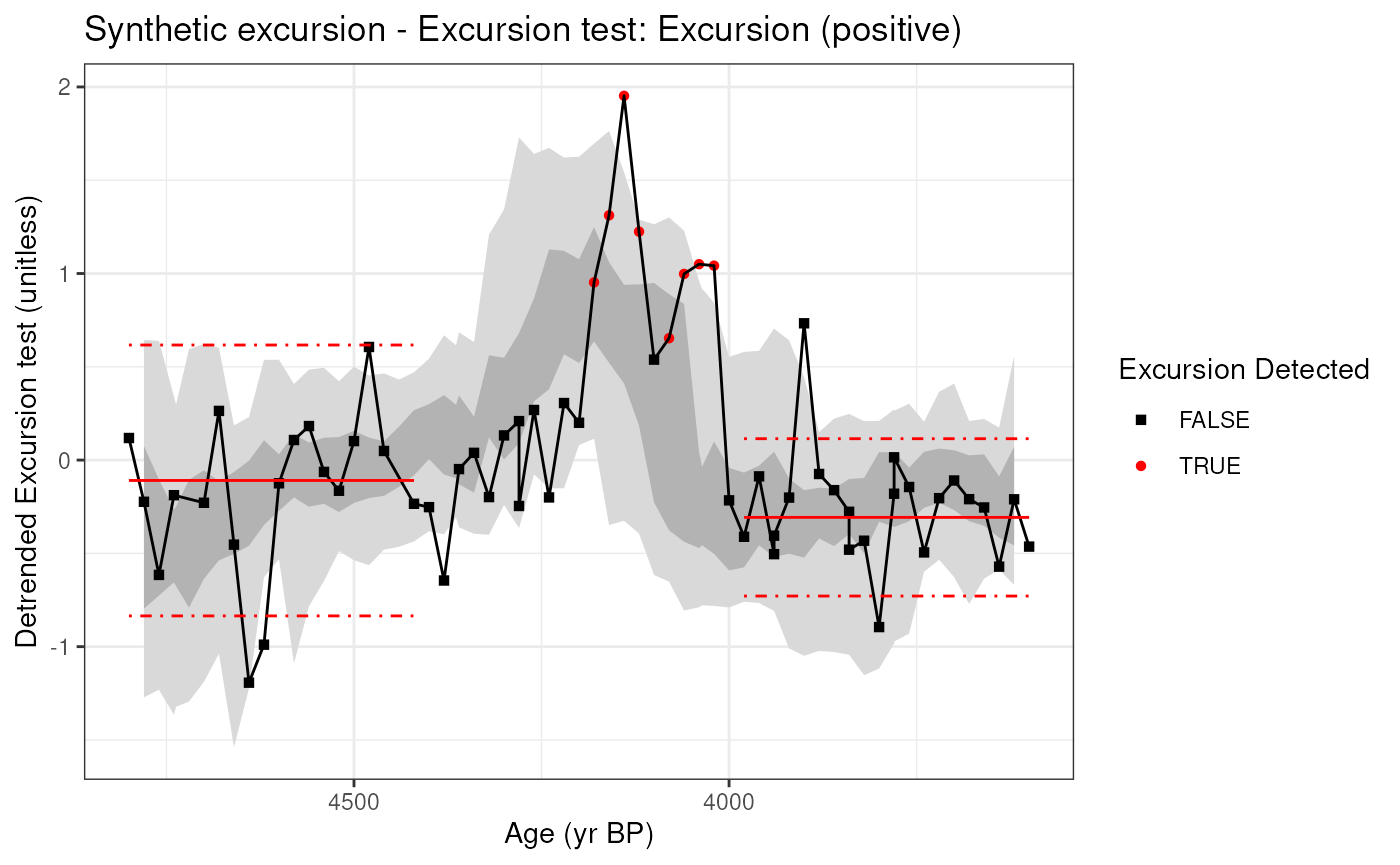
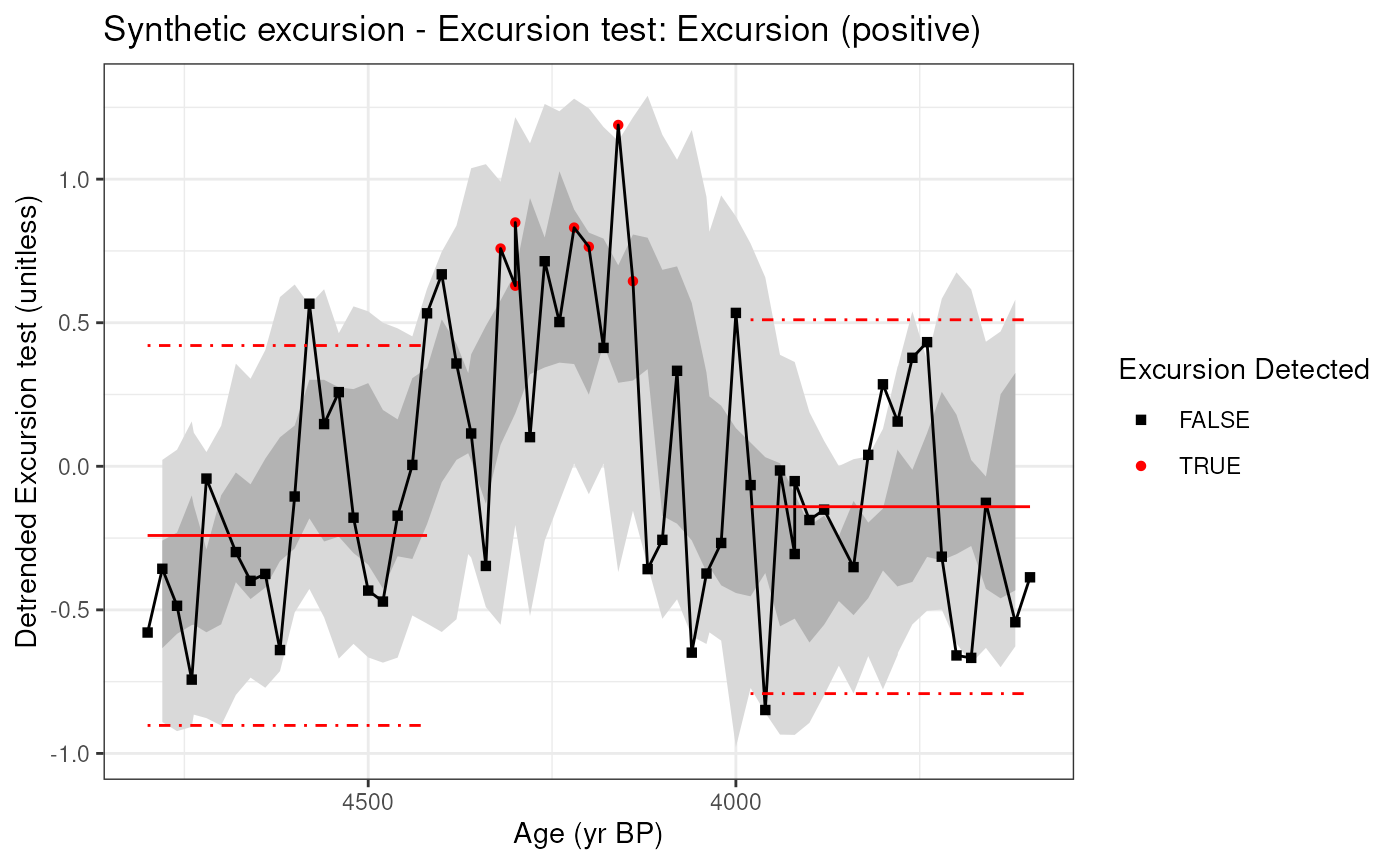
Deploying to gh-pages from @ LinkedEarth/actR@d43429a095d16a2b678f42fce0e0b3847300814f 🚀

diff --git a/articles/detectExcursion.html b/articles/detectExcursion.html
@@ -146,7 +146,7 @@ functions will summarize the results.</p>
 <span><span class="co"><span style="font-weight: bold;">#&gt; </span><span style="color: #555555;">sig.num = 2</span></span></span>
 <span><span class="co"><span style="color: #555555;">#&gt; n.consecutive = 2</span></span></span>
 <span><span class="co"><span style="color: #555555;">#&gt; exc.type = either</span></span></span>
-<span><span class="co"><span style="color: #555555;">#&gt; min.vals = 2</span></span></span>
+<span><span class="co"><span style="color: #555555;">#&gt; min.vals = 3</span></span></span>
 <span><span class="co"><span style="color: #555555;">#&gt; na.rm = TRUE</span></span></span>
 <span><span class="co"><span style="color: #555555;">#&gt; </span></span></span></code></pre></div>
 <p>Here we see the results, but it’s easier to see the results,
@@ -196,13 +196,13 @@ null hypothesis simulation 50 times.</p>
 <span><span class="co">#&gt; Selected d18O</span></span>
 <span><span class="co">#&gt; <span style="color: #00BB00;">Testing null hypothesis with 50 simulations, each with 50 ensemble members. </span></span></span>
 <span><span class="co"><span style="color: #00BB00;">#&gt; </span></span></span>
-<span><span class="co">#&gt; Testing null hypothesis <span style="color: #00BB00;">■■                              </span>   4% |  ETA: 26s</span></span>
-<span><span class="co">#&gt; Testing null hypothesis <span style="color: #00BB00;">■■■■■■■                         </span>  20% |  ETA: 17s</span></span>
-<span><span class="co">#&gt; Testing null hypothesis <span style="color: #00BB00;">■■■■■■■■■■■■                    </span>  36% |  ETA: 13s</span></span>
+<span><span class="co">#&gt; Testing null hypothesis <span style="color: #00BB00;">■■                              </span>   4% |  ETA: 27s</span></span>
+<span><span class="co">#&gt; Testing null hypothesis <span style="color: #00BB00;">■■■■■■                          </span>  18% |  ETA: 17s</span></span>
+<span><span class="co">#&gt; Testing null hypothesis <span style="color: #00BB00;">■■■■■■■■■■■                     </span>  34% |  ETA: 13s</span></span>
 <span><span class="co">#&gt; Testing null hypothesis <span style="color: #00BB00;">■■■■■■■■■■■■■■■■                </span>  50% |  ETA: 10s</span></span>
-<span><span class="co">#&gt; Testing null hypothesis <span style="color: #00BB00;">■■■■■■■■■■■■■■■■■■■■■           </span>  66% |  ETA:  7s</span></span>
-<span><span class="co">#&gt; Testing null hypothesis <span style="color: #00BB00;">■■■■■■■■■■■■■■■■■■■■■■■■■       </span>  80% |  ETA:  4s</span></span>
-<span><span class="co">#&gt; Testing null hypothesis <span style="color: #00BB00;">■■■■■■■■■■■■■■■■■■■■■■■■■■■■■■  </span>  96% |  ETA:  1s</span></span></code></pre></div>
+<span><span class="co">#&gt; Testing null hypothesis <span style="color: #00BB00;">■■■■■■■■■■■■■■■■■■■■            </span>  64% |  ETA:  7s</span></span>
+<span><span class="co">#&gt; Testing null hypothesis <span style="color: #00BB00;">■■■■■■■■■■■■■■■■■■■■■■■■        </span>  78% |  ETA:  4s</span></span>
+<span><span class="co">#&gt; Testing null hypothesis <span style="color: #00BB00;">■■■■■■■■■■■■■■■■■■■■■■■■■■■■■   </span>  94% |  ETA:  1s</span></span></code></pre></div>
 <p>This time, when we summarize the results, we get more interesting
 output, including an empirical p-value, which is the fraction of null
 hypothesis simulations that exceed the positivity rate in the actual
@@ -213,7 +213,7 @@ significant.</p>
 <span><span class="co">#&gt; <span style="font-weight: bold;">NGRIP.NGRIP.2004 - d18O: Excursion test results</span></span></span>
 <span><span class="co"><span style="font-weight: bold;">#&gt; </span><span style="color: #555555;">Searched for </span><span style="color: #555555; font-weight: bold;">negative</span><span style="color: #555555;"> excursions in a </span><span style="color: #555555; font-weight: bold;">200</span><span style="color: #555555;"> year window around </span><span style="color: #555555; font-weight: bold;">8200</span><span style="color: #555555;"> BP, with reference windows of </span><span style="color: #555555; font-weight: bold;">400</span><span style="color: #555555;"> years on either side.</span></span></span>
 <span><span class="co"><span style="color: #555555;">#&gt; </span></span></span>
-<span><span class="co">#&gt; <span style="font-weight: bold;">Overall result: Empirical p-value = </span><span style="color: #BB0000; font-weight: bold;">0.0638297872340425</span></span></span>
+<span><span class="co">#&gt; <span style="font-weight: bold;">Overall result: Empirical p-value = </span><span style="color: #BB0000; font-weight: bold;">0.0666666666666667</span></span></span>
 <span><span class="co"><span style="font-weight: bold;">#&gt; </span>Time uncertainty considered? <span style="color: #BB0000;">FALSE</span></span></span>
 <span><span class="co">#&gt; Paleo uncertainty considered? <span style="color: #00BB00;">TRUE</span></span></span>
 <span><span class="co">#&gt; Error propagation ensemble members = 50</span></span>
@@ -223,7 +223,7 @@ significant.</p>
 <span><span class="co"><span style="font-weight: bold;">#&gt; </span><span style="color: #555555;">sig.num = 2</span></span></span>
 <span><span class="co"><span style="color: #555555;">#&gt; n.consecutive = 2</span></span></span>
 <span><span class="co"><span style="color: #555555;">#&gt; exc.type = negative</span></span></span>
-<span><span class="co"><span style="color: #555555;">#&gt; min.vals = 2</span></span></span>
+<span><span class="co"><span style="color: #555555;">#&gt; min.vals = 3</span></span></span>
 <span><span class="co"><span style="color: #555555;">#&gt; na.rm = TRUE</span></span></span>
 <span><span class="co"><span style="color: #555555;">#&gt; </span></span></span></code></pre></div>
 <p>We also get a bit more information when plotting with uncertainties.
@@ -271,15 +271,15 @@ through our robust null hypothesis testing.</p>
 <span><span class="co">#&gt; Selected d18O</span></span>
 <span><span class="co">#&gt; <span style="color: #00BB00;">Testing null hypothesis with 50 simulations, each with 50 ensemble members. </span></span></span>
 <span><span class="co"><span style="color: #00BB00;">#&gt; </span></span></span>
-<span><span class="co">#&gt; Testing null hypothesis <span style="color: #00BB00;">■■■■■                           </span>  12% |  ETA: 27s</span></span>
-<span><span class="co">#&gt; Testing null hypothesis <span style="color: #00BB00;">■■■■■■■■                        </span>  22% |  ETA: 24s</span></span>
-<span><span class="co">#&gt; Testing null hypothesis <span style="color: #00BB00;">■■■■■■■■■■■                     </span>  34% |  ETA: 20s</span></span>
+<span><span class="co">#&gt; Testing null hypothesis <span style="color: #00BB00;">■■■■■                           </span>  12% |  ETA: 28s</span></span>
+<span><span class="co">#&gt; Testing null hypothesis <span style="color: #00BB00;">■■■■■■■■                        </span>  22% |  ETA: 23s</span></span>
+<span><span class="co">#&gt; Testing null hypothesis <span style="color: #00BB00;">■■■■■■■■■■■                     </span>  34% |  ETA: 19s</span></span>
 <span><span class="co">#&gt; Testing null hypothesis <span style="color: #00BB00;">■■■■■■■■■■■■■■                  </span>  44% |  ETA: 16s</span></span>
 <span><span class="co">#&gt; Testing null hypothesis <span style="color: #00BB00;">■■■■■■■■■■■■■■■■■               </span>  54% |  ETA: 14s</span></span>
 <span><span class="co">#&gt; Testing null hypothesis <span style="color: #00BB00;">■■■■■■■■■■■■■■■■■■■■            </span>  64% |  ETA: 11s</span></span>
 <span><span class="co">#&gt; Testing null hypothesis <span style="color: #00BB00;">■■■■■■■■■■■■■■■■■■■■■■■         </span>  74% |  ETA:  8s</span></span>
 <span><span class="co">#&gt; Testing null hypothesis <span style="color: #00BB00;">■■■■■■■■■■■■■■■■■■■■■■■■■■      </span>  84% |  ETA:  5s</span></span>
-<span><span class="co">#&gt; Testing null hypothesis <span style="color: #00BB00;">■■■■■■■■■■■■■■■■■■■■■■■■■■■■■   </span>  92% |  ETA:  2s</span></span></code></pre></div>
+<span><span class="co">#&gt; Testing null hypothesis <span style="color: #00BB00;">■■■■■■■■■■■■■■■■■■■■■■■■■■■■■   </span>  94% |  ETA:  2s</span></span></code></pre></div>
 <p>Let’s examine the result.</p>
 <div class="sourceCode" id="cb9"><pre class="downlit sourceCode r">
 <code class="sourceCode R"><span></span>
@@ -287,7 +287,7 @@ through our robust null hypothesis testing.</p>
 <span><span class="co">#&gt; <span style="font-weight: bold;">NGRIP.NGRIP.2004 - d18O: Excursion test results</span></span></span>
 <span><span class="co"><span style="font-weight: bold;">#&gt; </span><span style="color: #555555;">Searched for </span><span style="color: #555555; font-weight: bold;">negative</span><span style="color: #555555;"> excursions in a </span><span style="color: #555555; font-weight: bold;">200</span><span style="color: #555555;"> year window around </span><span style="color: #555555; font-weight: bold;">8200</span><span style="color: #555555;"> BP, with reference windows of </span><span style="color: #555555; font-weight: bold;">400</span><span style="color: #555555;"> years on either side.</span></span></span>
 <span><span class="co"><span style="color: #555555;">#&gt; </span></span></span>
-<span><span class="co">#&gt; <span style="font-weight: bold;">Overall result: Empirical p-value = </span><span style="color: #00BB00; font-weight: bold;">0.02</span></span></span>
+<span><span class="co">#&gt; <span style="font-weight: bold;">Overall result: Empirical p-value = </span><span style="color: #00BB00; font-weight: bold;">0.0217391304347826</span></span></span>
 <span><span class="co"><span style="font-weight: bold;">#&gt; </span>Time uncertainty considered? <span style="color: #00BB00;">TRUE</span></span></span>
 <span><span class="co">#&gt; Paleo uncertainty considered? <span style="color: #00BB00;">TRUE</span></span></span>
 <span><span class="co">#&gt; Error propagation ensemble members = 50</span></span>
@@ -297,7 +297,7 @@ through our robust null hypothesis testing.</p>
 <span><span class="co"><span style="font-weight: bold;">#&gt; </span><span style="color: #555555;">sig.num = 2</span></span></span>
 <span><span class="co"><span style="color: #555555;">#&gt; n.consecutive = 2</span></span></span>
 <span><span class="co"><span style="color: #555555;">#&gt; exc.type = negative</span></span></span>
-<span><span class="co"><span style="color: #555555;">#&gt; min.vals = 2</span></span></span>
+<span><span class="co"><span style="color: #555555;">#&gt; min.vals = 3</span></span></span>
 <span><span class="co"><span style="color: #555555;">#&gt; na.rm = TRUE</span></span></span>
 <span><span class="co"><span style="color: #555555;">#&gt; </span></span></span></code></pre></div>
 <p>And plot the output.</p>

diff --git a/articles/detectShift.html b/articles/detectShift.html
@@ -121,14 +121,15 @@ null.hypothesis.n]. * specifies a minimum segment length of 3000y</p>
 <span><span class="co">#&gt; <span style="color: #BB00BB;">timeUnits is at least partially absent in the input data</span></span></span>
 <span><span class="co"><span style="color: #BB00BB;">#&gt; </span><span style="color: #00BB00;">Testing null hypothesis with 50 simulations, each with 50 ensemble members. </span></span></span>
 <span><span class="co"><span style="color: #00BB00;">#&gt; </span></span></span>
-<span><span class="co">#&gt; Testing null hypothesis <span style="color: #00BB00;">■■■                             </span>   6% |  ETA: 23s</span></span>
-<span><span class="co">#&gt; Testing null hypothesis <span style="color: #00BB00;">■■■■■■                          </span>  18% |  ETA: 21s</span></span>
-<span><span class="co">#&gt; Testing null hypothesis <span style="color: #00BB00;">■■■■■■■■■■                      </span>  30% |  ETA: 18s</span></span>
-<span><span class="co">#&gt; Testing null hypothesis <span style="color: #00BB00;">■■■■■■■■■■■■■■                  </span>  42% |  ETA: 15s</span></span>
-<span><span class="co">#&gt; Testing null hypothesis <span style="color: #00BB00;">■■■■■■■■■■■■■■■■■               </span>  54% |  ETA: 12s</span></span>
-<span><span class="co">#&gt; Testing null hypothesis <span style="color: #00BB00;">■■■■■■■■■■■■■■■■■■■■            </span>  64% |  ETA:  9s</span></span>
-<span><span class="co">#&gt; Testing null hypothesis <span style="color: #00BB00;">■■■■■■■■■■■■■■■■■■■■■■■■        </span>  76% |  ETA:  6s</span></span>
-<span><span class="co">#&gt; Testing null hypothesis <span style="color: #00BB00;">■■■■■■■■■■■■■■■■■■■■■■■■■■■     </span>  88% |  ETA:  3s</span></span></code></pre></div>
+<span><span class="co">#&gt; Testing null hypothesis <span style="color: #00BB00;">■■                              </span>   4% |  ETA: 26s</span></span>
+<span><span class="co">#&gt; Testing null hypothesis <span style="color: #00BB00;">■■■■■                           </span>  14% |  ETA: 23s</span></span>
+<span><span class="co">#&gt; Testing null hypothesis <span style="color: #00BB00;">■■■■■■■■■                       </span>  26% |  ETA: 20s</span></span>
+<span><span class="co">#&gt; Testing null hypothesis <span style="color: #00BB00;">■■■■■■■■■■■■                    </span>  36% |  ETA: 17s</span></span>
+<span><span class="co">#&gt; Testing null hypothesis <span style="color: #00BB00;">■■■■■■■■■■■■■■■                 </span>  48% |  ETA: 14s</span></span>
+<span><span class="co">#&gt; Testing null hypothesis <span style="color: #00BB00;">■■■■■■■■■■■■■■■■■■              </span>  58% |  ETA: 12s</span></span>
+<span><span class="co">#&gt; Testing null hypothesis <span style="color: #00BB00;">■■■■■■■■■■■■■■■■■■■■■           </span>  68% |  ETA:  9s</span></span>
+<span><span class="co">#&gt; Testing null hypothesis <span style="color: #00BB00;">■■■■■■■■■■■■■■■■■■■■■■■■■       </span>  80% |  ETA:  5s</span></span>
+<span><span class="co">#&gt; Testing null hypothesis <span style="color: #00BB00;">■■■■■■■■■■■■■■■■■■■■■■■■■■■■■   </span>  92% |  ETA:  2s</span></span></code></pre></div>
 <p>This lines generates a textual summary of the output:</p>
 <div class="sourceCode" id="cb3"><pre class="downlit sourceCode r">
 <code class="sourceCode R"><span><span class="fu"><a href="https://rdrr.io/r/base/summary.html" class="external-link">summary</a></span><span class="op">(</span><span class="va">msGeob</span><span class="op">)</span></span>
@@ -179,9 +180,10 @@ attempt to detect changes in the mean.</p>
 <span><span class="co">#&gt; Selected trsgi</span></span>
 <span><span class="co">#&gt; <span style="color: #00BB00;">Testing null hypothesis with 50 simulations, each with 50 ensemble members. </span></span></span>
 <span><span class="co"><span style="color: #00BB00;">#&gt; </span></span></span>
-<span><span class="co">#&gt; Testing null hypothesis <span style="color: #00BB00;">■■■■■■■■■■■                     </span>  32% |  ETA:  8s</span></span>
-<span><span class="co">#&gt; Testing null hypothesis <span style="color: #00BB00;">■■■■■■■■■■■■■■■■■■              </span>  56% |  ETA:  5s</span></span>
-<span><span class="co">#&gt; Testing null hypothesis <span style="color: #00BB00;">■■■■■■■■■■■■■■■■■■■■■■■■■       </span>  80% |  ETA:  2s</span></span></code></pre></div>
+<span><span class="co">#&gt; Testing null hypothesis <span style="color: #00BB00;">■■■                             </span>   8% |  ETA: 12s</span></span>
+<span><span class="co">#&gt; Testing null hypothesis <span style="color: #00BB00;">■■■■■■■■■■■                     </span>  32% |  ETA:  9s</span></span>
+<span><span class="co">#&gt; Testing null hypothesis <span style="color: #00BB00;">■■■■■■■■■■■■■■■■■               </span>  54% |  ETA:  6s</span></span>
+<span><span class="co">#&gt; Testing null hypothesis <span style="color: #00BB00;">■■■■■■■■■■■■■■■■■■■■■■■■        </span>  78% |  ETA:  3s</span></span></code></pre></div>
 <div class="sourceCode" id="cb6"><pre class="downlit sourceCode r">
 <code class="sourceCode R"><span><span class="va">gbmPlot</span> <span class="op">&lt;-</span> <span class="fu"><a href="https://rdrr.io/r/graphics/plot.default.html" class="external-link">plot</a></span><span class="op">(</span><span class="va">msGb</span><span class="op">)</span></span></code></pre></div>
 <p><img src="detectShift_files/figure-html/unnamed-chunk-6-1.png" width="700"></p>
@@ -206,9 +208,10 @@ package).</p>
 <span><span class="co">#&gt; Selected trsgi</span></span>
 <span><span class="co">#&gt; <span style="color: #00BB00;">Testing null hypothesis with 50 simulations, each with 50 ensemble members. </span></span></span>
 <span><span class="co"><span style="color: #00BB00;">#&gt; </span></span></span>
-<span><span class="co">#&gt; Testing null hypothesis <span style="color: #00BB00;">■■■■■■■■■■                      </span>  30% |  ETA:  9s</span></span>
-<span><span class="co">#&gt; Testing null hypothesis <span style="color: #00BB00;">■■■■■■■■■■■■■■■■■               </span>  54% |  ETA:  6s</span></span>
-<span><span class="co">#&gt; Testing null hypothesis <span style="color: #00BB00;">■■■■■■■■■■■■■■■■■■■■■■■■        </span>  78% |  ETA:  3s</span></span></code></pre></div>
+<span><span class="co">#&gt; Testing null hypothesis <span style="color: #00BB00;">■■■■■■■■                        </span>  22% |  ETA: 10s</span></span>
+<span><span class="co">#&gt; Testing null hypothesis <span style="color: #00BB00;">■■■■■■■■■■■■■■                  </span>  44% |  ETA:  7s</span></span>
+<span><span class="co">#&gt; Testing null hypothesis <span style="color: #00BB00;">■■■■■■■■■■■■■■■■■■■■            </span>  64% |  ETA:  5s</span></span>
+<span><span class="co">#&gt; Testing null hypothesis <span style="color: #00BB00;">■■■■■■■■■■■■■■■■■■■■■■■■■■■     </span>  86% |  ETA:  2s</span></span></code></pre></div>
 <p>Note also that actR offers 3 different methods to generate
 surrogates, as detailed in the documentation. The default is
 <em>isospectral</em>, which was used in the previous examples. To change

diff --git a/articles/makeExcursion.html b/articles/makeExcursion.html
@@ -203,7 +203,7 @@ results</p>
 <span><span class="co"><span style="font-weight: bold;">## </span><span style="color: #555555;">sig.num = 2.2854998252122</span></span></span>
 <span><span class="co"><span style="color: #555555;">## n.consecutive = 2</span></span></span>
 <span><span class="co"><span style="color: #555555;">## exc.type = either</span></span></span>
-<span><span class="co"><span style="color: #555555;">## min.vals = 2</span></span></span>
+<span><span class="co"><span style="color: #555555;">## min.vals = 3</span></span></span>
 <span><span class="co"><span style="color: #555555;">## na.rm = TRUE</span></span></span>
 <span><span class="co"><span style="color: #555555;">## </span></span></span></code></pre>
 <p>Let’s plot the results</p>
@@ -284,15 +284,17 @@ uncertainty.</p>
 <span>                          simulate.paleo.uncertainty <span class="op">=</span> <span class="cn">TRUE</span><span class="op">)</span></span></code></pre></div>
 <pre><code><span><span class="co">## <span style="color: #00BB00;">Testing null hypothesis with 50 simulations, each with 50 ensemble members. </span></span></span>
 <span><span class="co"><span style="color: #00BB00;">## </span></span></span></code></pre>
-<pre><code><span><span class="co">## Testing null hypothesis <span style="color: #00BB00;">■■■■■                           </span>  14% |  ETA: 19s</span></span></code></pre>
+<pre><code><span><span class="co">## Testing null hypothesis <span style="color: #00BB00;">■■■■■                           </span>  14% |  ETA: 20s</span></span></code></pre>
 <pre><code><span><span class="co">## Testing null hypothesis <span style="color: #00BB00;">■■■■■■■■■                       </span>  26% |  ETA: 17s</span></span></code></pre>
+<pre><code><span><span class="co">## Warning in .f(.x[[i]], .y[[i]], ...): insufficient minimum values</span></span></code></pre>
 <pre><code><span><span class="co">## Testing null hypothesis <span style="color: #00BB00;">■■■■■■■■■■■■■                   </span>  40% |  ETA: 13s</span></span></code></pre>
-<pre><code><span><span class="co">## Testing null hypothesis <span style="color: #00BB00;">■■■■■■■■■■■■■■■■■■              </span>  56% |  ETA: 10s</span></span></code></pre>
-<pre><code><span><span class="co">## Testing null hypothesis <span style="color: #00BB00;">■■■■■■■■■■■■■■■■■■■■■■          </span>  70% |  ETA:  6s</span></span></code></pre>
+<pre><code><span><span class="co">## Testing null hypothesis <span style="color: #00BB00;">■■■■■■■■■■■■■■■■■               </span>  54% |  ETA: 10s</span></span></code></pre>
+<pre><code><span><span class="co">## Testing null hypothesis <span style="color: #00BB00;">■■■■■■■■■■■■■■■■■■■■■■          </span>  70% |  ETA:  7s</span></span></code></pre>
 <pre><code><span><span class="co">## Testing null hypothesis <span style="color: #00BB00;">■■■■■■■■■■■■■■■■■■■■■■■■■■      </span>  84% |  ETA:  3s</span></span></code></pre>
+<pre><code><span><span class="co">## Warning in .f(.x[[i]], .y[[i]], ...): insufficient minimum values</span></span></code></pre>
 <pre><code><span><span class="co">## Testing null hypothesis <span style="color: #00BB00;">■■■■■■■■■■■■■■■■■■■■■■■■■■■■■■  </span>  98% |  ETA:  0s</span></span></code></pre>
 <p>Now let’s look at the results</p>
-<div class="sourceCode" id="cb18"><pre class="downlit sourceCode r">
+<div class="sourceCode" id="cb20"><pre class="downlit sourceCode r">
 <code class="sourceCode R"><span><span class="fu"><a href="https://rdrr.io/r/base/print.html" class="external-link">print</a></span><span class="op">(</span><span class="va">detectedExcusionEns</span><span class="op">)</span></span></code></pre></div>
 <pre><code><span><span class="co">## <span style="font-weight: bold;">Synthetic excursion - Excursion test: Excursion test results</span></span></span>
 <span><span class="co"><span style="font-weight: bold;">## </span><span style="color: #555555;">Searched for </span><span style="color: #555555; font-weight: bold;">positive</span><span style="color: #555555;"> excursions in a </span><span style="color: #555555; font-weight: bold;">400</span><span style="color: #555555;"> year window around </span><span style="color: #555555; font-weight: bold;">4200</span><span style="color: #555555;"> yr BP, with reference windows of </span><span style="color: #555555; font-weight: bold;">400</span><span style="color: #555555;"> years on either side.</span></span></span>
@@ -307,11 +309,11 @@ uncertainty.</p>
 <span><span class="co"><span style="font-weight: bold;">## </span><span style="color: #555555;">sig.num = 2</span></span></span>
 <span><span class="co"><span style="color: #555555;">## n.consecutive = 2</span></span></span>
 <span><span class="co"><span style="color: #555555;">## exc.type = positive</span></span></span>
-<span><span class="co"><span style="color: #555555;">## min.vals = 2</span></span></span>
+<span><span class="co"><span style="color: #555555;">## min.vals = 3</span></span></span>
 <span><span class="co"><span style="color: #555555;">## na.rm = TRUE</span></span></span>
 <span><span class="co"><span style="color: #555555;">## </span></span></span></code></pre>
 <p>and make a plot</p>
-<div class="sourceCode" id="cb20"><pre class="downlit sourceCode r">
+<div class="sourceCode" id="cb22"><pre class="downlit sourceCode r">
 <code class="sourceCode R"><span><span class="fu"><a href="https://rdrr.io/r/graphics/plot.default.html" class="external-link">plot</a></span><span class="op">(</span><span class="va">detectedExcusionEns</span><span class="op">)</span></span></code></pre></div>
 <p><img src="makeExcursion_files/figure-html/unnamed-chunk-7-1.png" width="700"></p>
 </div>

diff --git a/articles/makeShift.html b/articles/makeShift.html
@@ -124,9 +124,10 @@ time 20</p>
 <span>                     n.ens <span class="op">=</span> <span class="fl">50</span><span class="op">)</span></span>
 <span><span class="co">#&gt; <span style="color: #00BB00;">Testing null hypothesis with 50 simulations, each with 50 ensemble members. </span></span></span>
 <span><span class="co"><span style="color: #00BB00;">#&gt; </span></span></span>
-<span><span class="co">#&gt; Testing null hypothesis <span style="color: #00BB00;">■■■■■■                          </span>  16% |  ETA:  8s</span></span>
-<span><span class="co">#&gt; Testing null hypothesis <span style="color: #00BB00;">■■■■■■■■■■■■■■■                 </span>  46% |  ETA:  6s</span></span>
-<span><span class="co">#&gt; Testing null hypothesis <span style="color: #00BB00;">■■■■■■■■■■■■■■■■■■■■■■■■        </span>  78% |  ETA:  2s</span></span></code></pre></div>
+<span><span class="co">#&gt; Testing null hypothesis <span style="color: #00BB00;">■■■■■                           </span>  14% |  ETA:  9s</span></span>
+<span><span class="co">#&gt; Testing null hypothesis <span style="color: #00BB00;">■■■■■■■■■■■■■                   </span>  40% |  ETA:  7s</span></span>
+<span><span class="co">#&gt; Testing null hypothesis <span style="color: #00BB00;">■■■■■■■■■■■■■■■■■■■■■■          </span>  70% |  ETA:  3s</span></span>
+<span><span class="co">#&gt; Testing null hypothesis <span style="color: #00BB00;">■■■■■■■■■■■■■■■■■■■■■■■■■■■■■■  </span>  98% |  ETA:  0s</span></span></code></pre></div>
 <p>###Plot shift</p>
 <p>Let’s plot the results</p>
 <div class="sourceCode" id="cb4"><pre class="downlit sourceCode r">

diff --git a/reference/detectExcursionCore.html b/reference/detectExcursionCore.html
@@ -75,7 +75,7 @@
 <span>  sig.num <span class="op">=</span> <span class="fl">2</span>,</span>
 <span>  n.consecutive <span class="op">=</span> <span class="fl">2</span>,</span>
 <span>  exc.type <span class="op">=</span> <span class="st">"either"</span>,</span>
-<span>  min.vals <span class="op">=</span> <span class="fl">2</span>,</span>
+<span>  min.vals <span class="op">=</span> <span class="fl">3</span>,</span>
 <span>  na.rm <span class="op">=</span> <span class="cn">TRUE</span></span>
 <span><span class="op">)</span></span></code></pre></div>
     </div>
